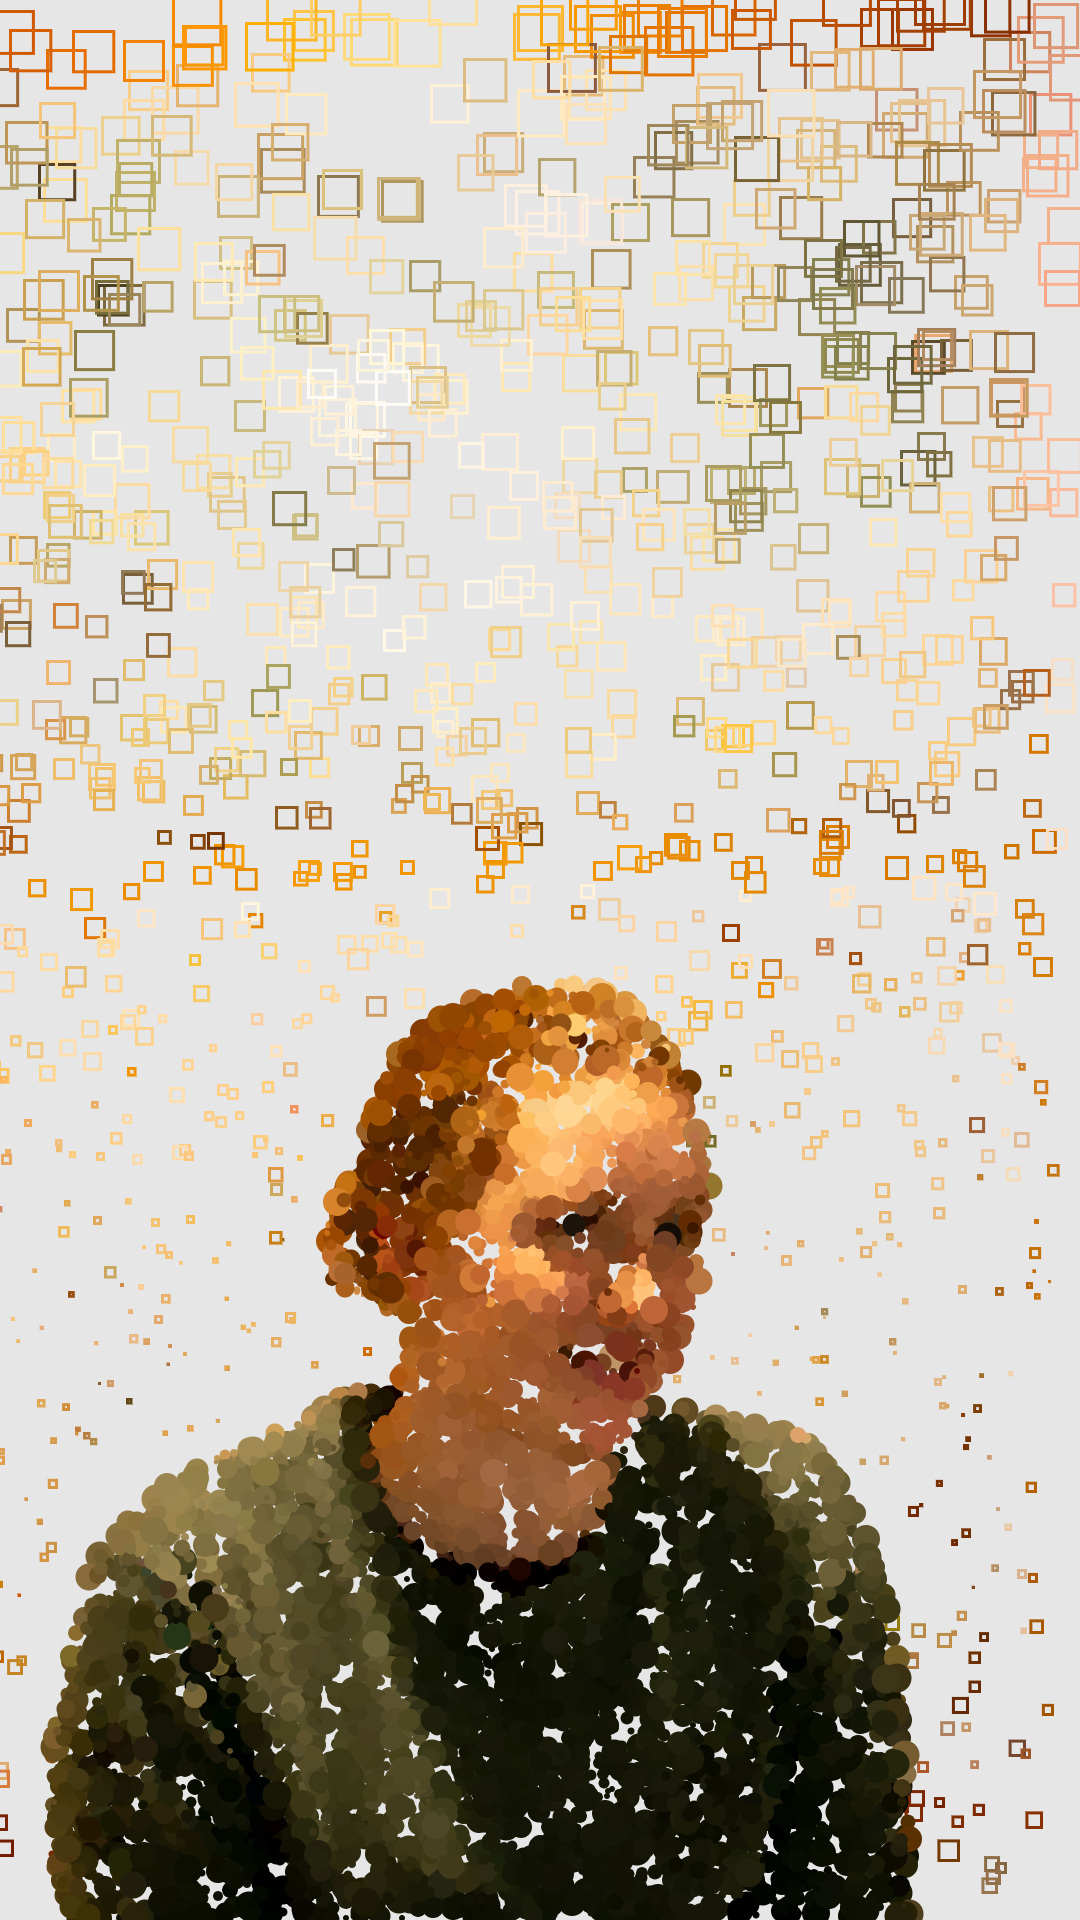
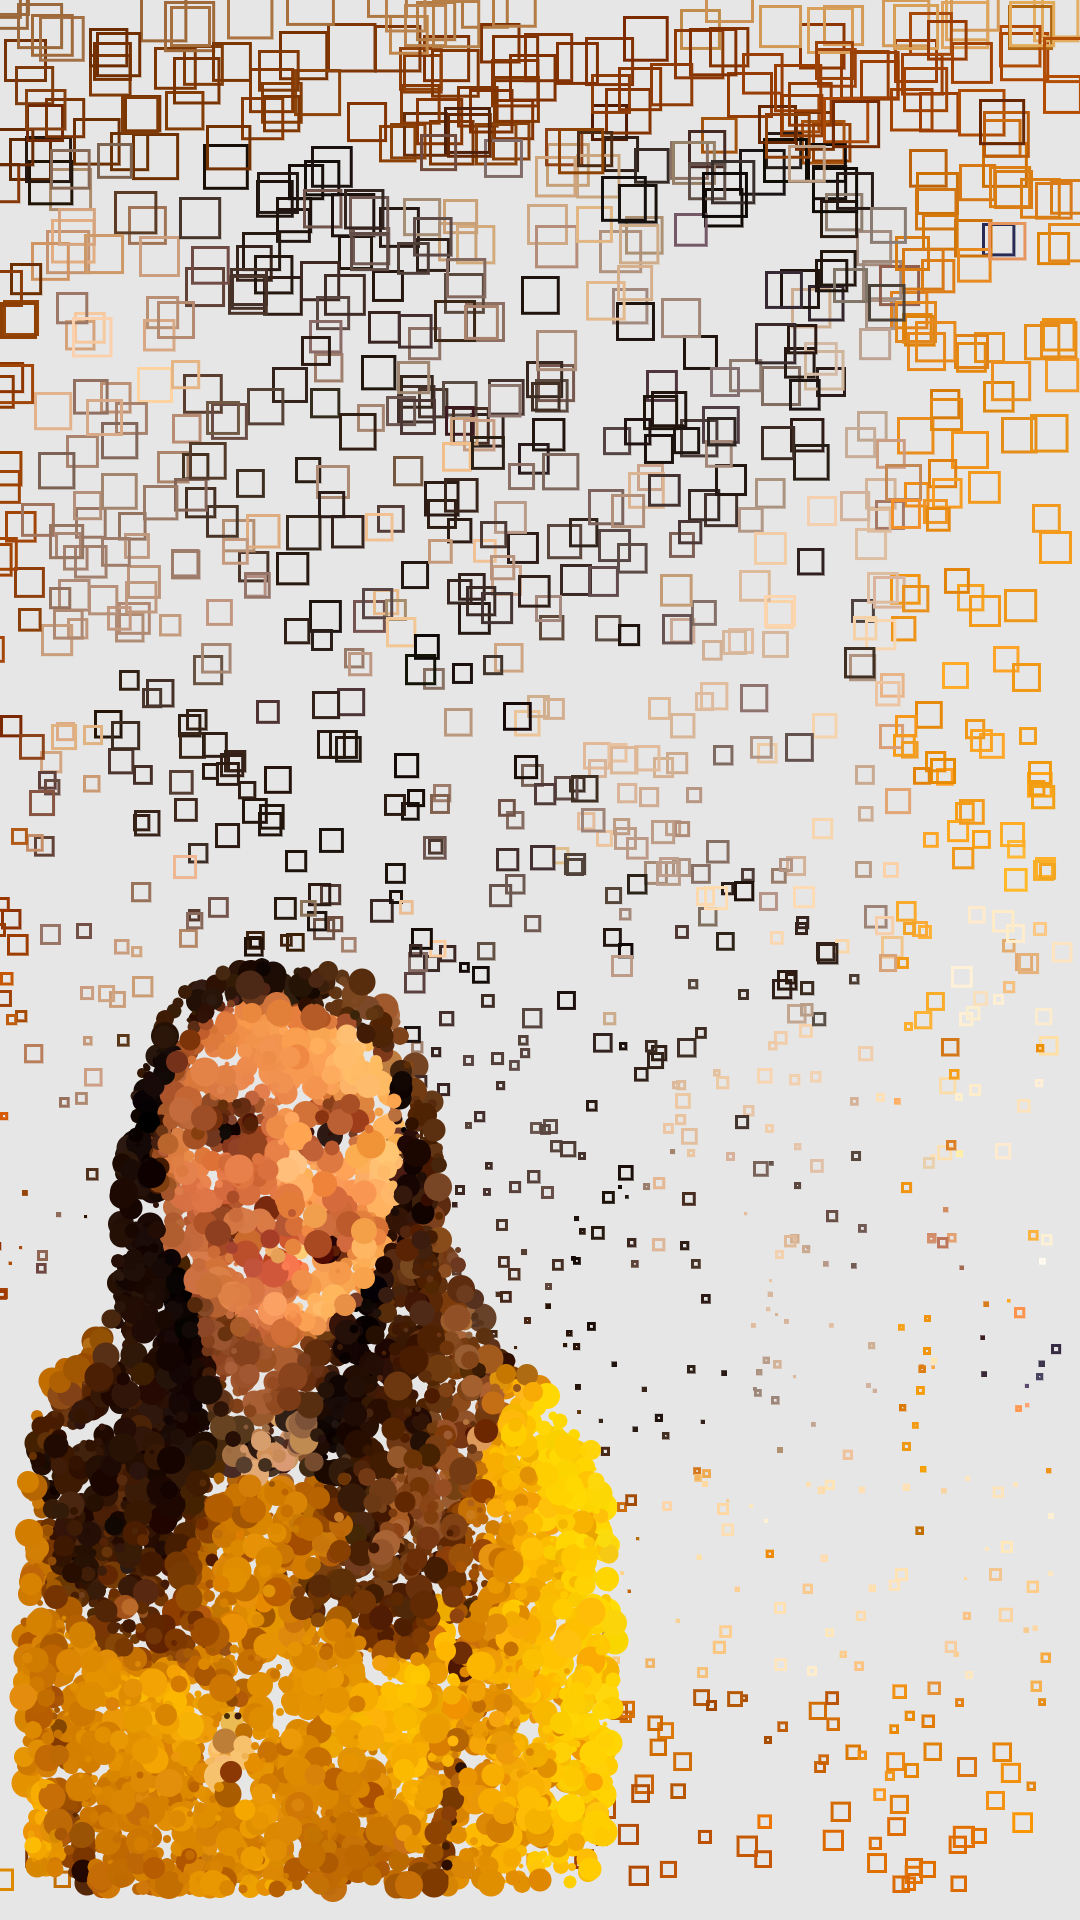
smartmask

diff --git a/sketch.js b/sketch.js
@@ -6,7 +6,7 @@ let renderCounter=0;
 
 function preload() {
   sourceImg = loadImage("input_3.jpg");
-  maskImg = loadImage("mask_3.png");
+  maskImg = loadImage("mask_input_3.png");
 }
 
 function setup () {

diff --git a/README.md b/README.md
@@ -1,5 +1,9 @@
 ## Creative Coding 2: Custom Pixel
 
+## Smart Mask
+
+I found the smart mask to not be the best. it tends to curve off before the bottom, creating an effect that makes it looks like my subjects are cut off slightly. Due to the nature of my masking where I only need to mask a single subject, the time taken to create the mask was actually longer with the smart mask than for me to loas the image into photoshop and create my own mask
+
 My roommates and their walls are quite interesting. Each of them has similar but distinct tastes whcih creates a really interesting visual when compared. I wanted to focus on a theme of familiar but unfamiliar. The roommates themselves are easy to spot and visialise and they are on the edge of recognision, but there are small parts within that break the possibility of complete familiarity. 
 
 The backgrounds are hard to tell with the spaes only being outlines and the colours being quite spread out. THhe gradient of size creates an almost steam effect where the squares almost look to rise up from the bottom, growing in size and density as it does so. 
